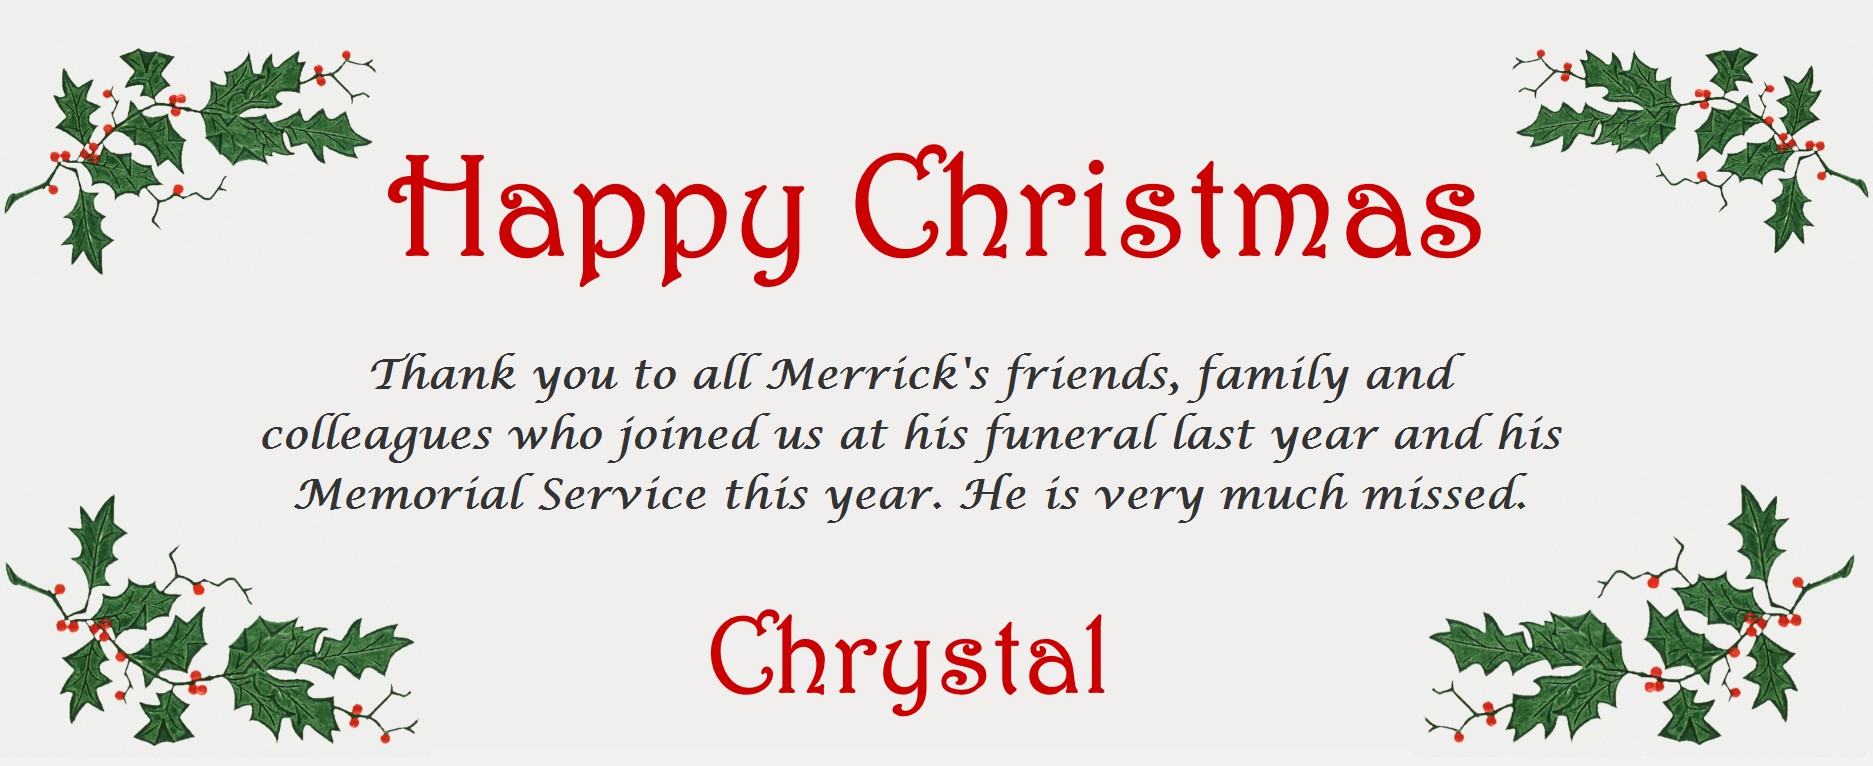
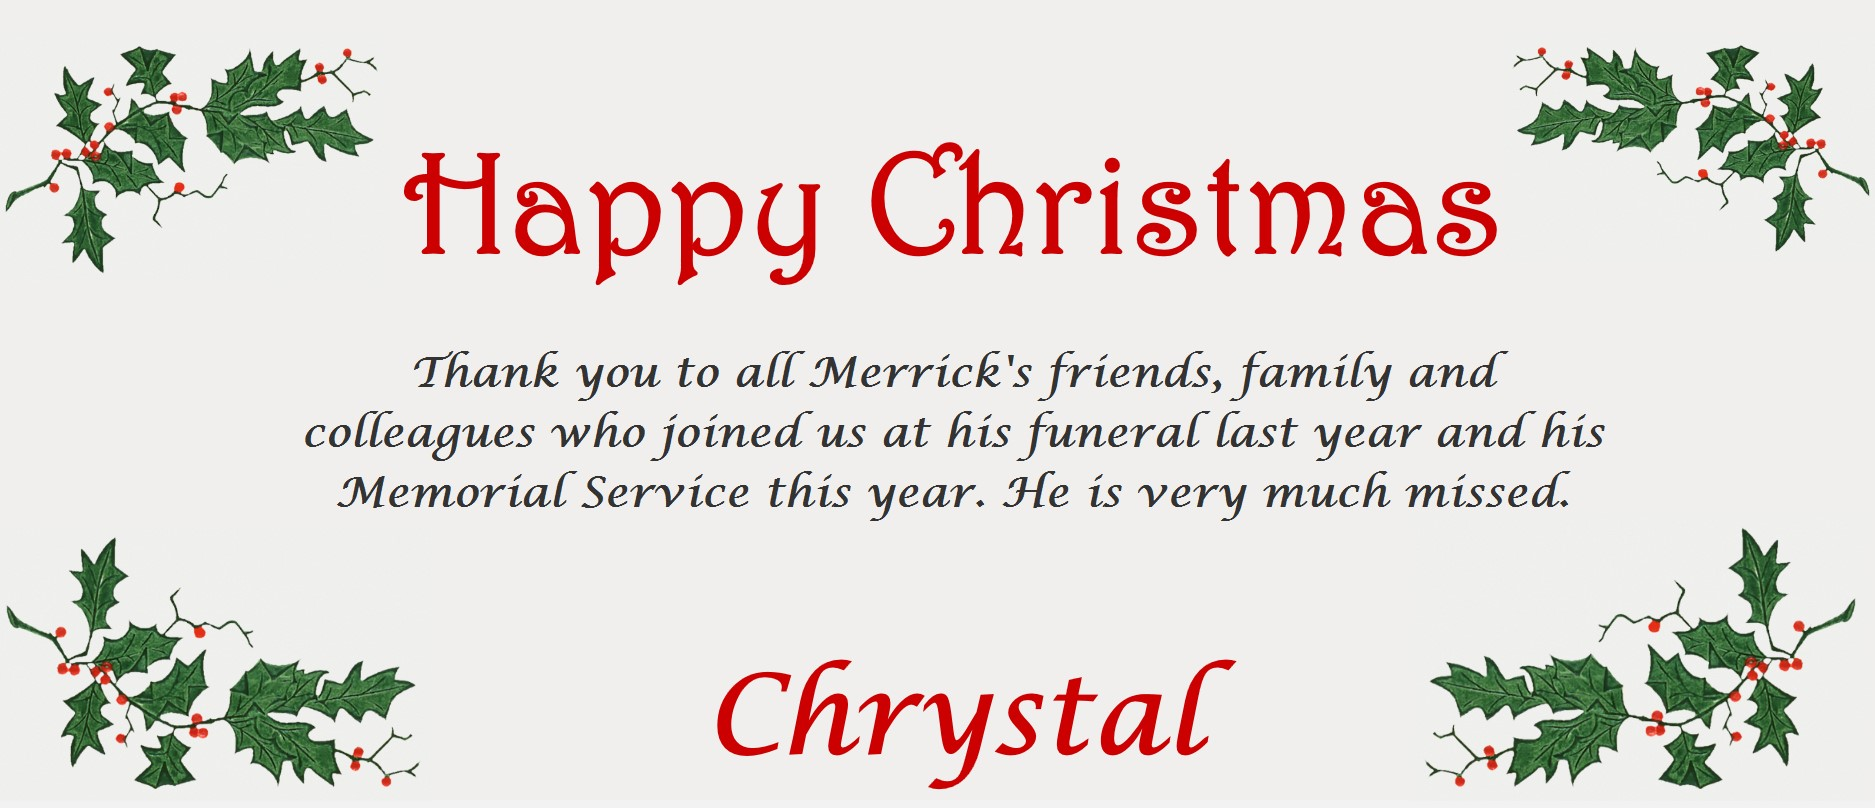
Re-centering

diff --git a/2024/version-c.html b/2024/version-c.html
@@ -91,9 +91,9 @@
 		}
 	</style>
 </head>
-<body style="background: #efefef;">
+<body style="background: #F0EFED;">
 	<div class="block-preview" style="display: none;">&nbsp;</div>
-	<div role="article" lang="en" dir="ltr" class="wrapper" style="background: #efefef; font-size: 16px; font-family: Helvetica Neue, Helvetica, Arial, sans-serif;">
+	<div role="article" lang="en" dir="ltr" class="wrapper" style="background: #F0EFED; font-size: 16px; font-family: Helvetica Neue, Helvetica, Arial, sans-serif;">
 
 <!-- Container -->
 
@@ -114,7 +114,7 @@
 
 <!-- Standard content section -->
 				<div class="column" style="text-align: center;">
-					<img src="https://gilgongo.github.io/xmas/2024/xmas-24-c.jpg" width="600" height="auto" alt="" style="display: block; border-radius: 10px; width: 100%; height: auto;" data-be-img-upload-id="ls0daizu3">
+					<img src="xmas-24-c.jpg" width="600" height="auto" alt="" style="display: block; border-radius: 10px; width: 100%; height: auto;" data-be-img-upload-id="ls0daizu3">
 					
 					
 				</div>
